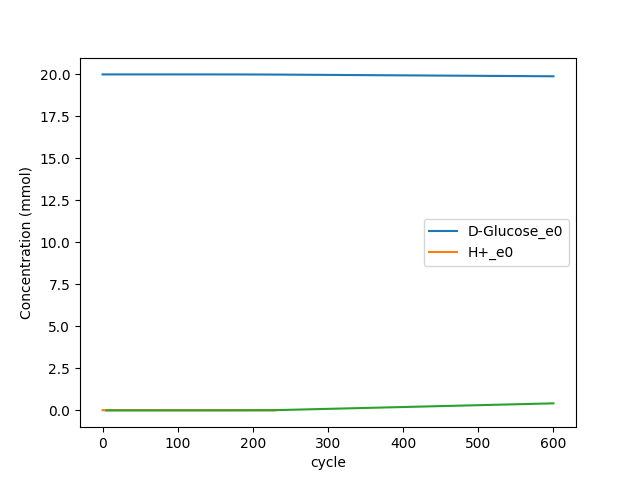
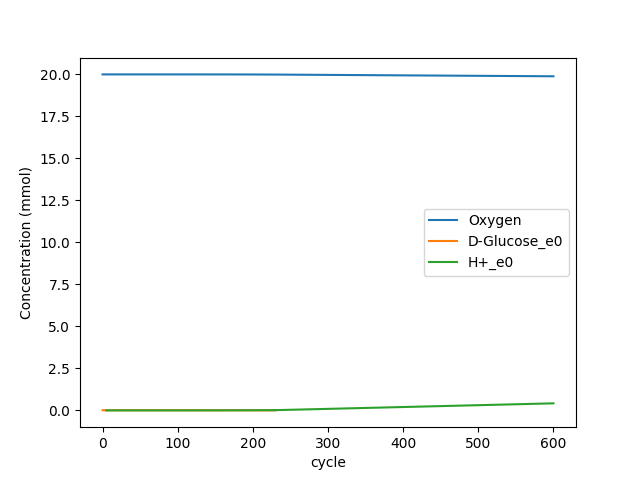
Add oxygen to media labels

Changed region(s): [[0.6562, 0.4375, 0.875, 0.5625]]

diff --git a/mit1002_core/timecourse/plot_results.py b/mit1002_core/timecourse/plot_results.py
@@ -67,7 +67,7 @@ media = media[media.conc_mmol<900]
 
 fig, ax = plt.subplots()
 media.groupby('metabolite').plot(x='cycle', ax =ax, y='conc_mmol')
-ax.legend(('D-Glucose_e0', 'H+_e0')) # TODO: Find a way to get the metabolite names from the media dataframe
+ax.legend(('Oxygen', 'D-Glucose_e0', 'H+_e0')) # TODO: Find a way to get the metabolite names from the media dataframe
 ax.set_ylabel("Concentration (mmol)")
 
 # Save the media plot
